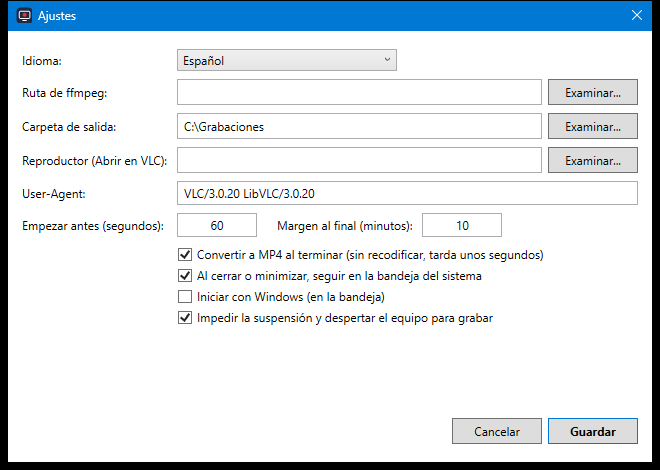
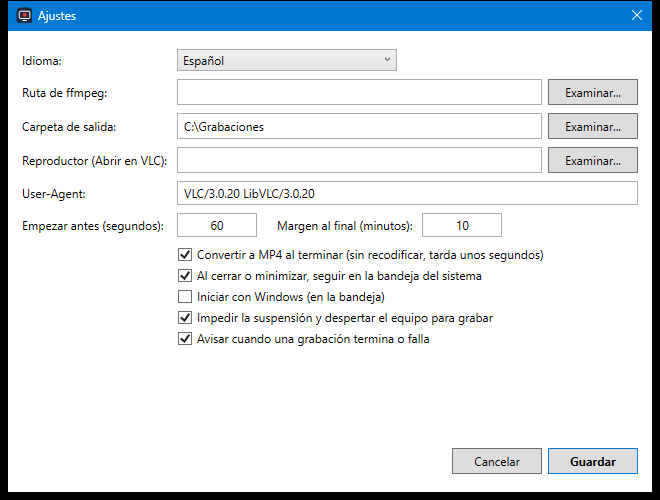
Notify when a recording finishes or fails
An unattended recording could fail overnight with the only trace being a
line in the Detail column. The scheduler now raises a Finished event on
reaching a terminal state and the main window shows a notification next to
the clock; clicking it opens the folder with the file. Stopping a
recording yourself does not notify.

Claude-Session: https://claude.ai/code/session_01PLmKPQmk7RKYaSJT1D6BU3

diff --git a/SettingsWindow.xaml b/SettingsWindow.xaml
@@ -1,7 +1,7 @@
 <Window x:Class="IptvRecorder.SettingsWindow"
         xmlns="http://schemas.microsoft.com/winfx/2006/xaml/presentation"
         xmlns:x="http://schemas.microsoft.com/winfx/2006/xaml"
-        Title="{DynamicResource Settings_Title}" Height="470" Width="660" ResizeMode="NoResize"
+        Title="{DynamicResource Settings_Title}" Height="500" Width="660" ResizeMode="NoResize"
         WindowStartupLocation="CenterOwner" ShowInTaskbar="False">
     <Window.Resources>
         <Style TargetType="TextBox">
@@ -29,6 +29,7 @@
             <ColumnDefinition Width="Auto"/>
         </Grid.ColumnDefinitions>
         <Grid.RowDefinitions>
+            <RowDefinition Height="Auto"/>
             <RowDefinition Height="Auto"/>
             <RowDefinition Height="Auto"/>
             <RowDefinition Height="Auto"/>
@@ -74,8 +75,10 @@
         <CheckBox x:Name="AutostartBox" Grid.Row="8" Grid.Column="1" Grid.ColumnSpan="2" Content="{DynamicResource Set_Autostart}"/>
         <CheckBox x:Name="PreventSleepBox" Grid.Row="9" Grid.Column="1" Grid.ColumnSpan="2"
                   Content="{DynamicResource Set_PreventSleep}" ToolTip="{DynamicResource Set_PreventSleep_Tip}"/>
+        <CheckBox x:Name="NotifyBox" Grid.Row="10" Grid.Column="1" Grid.ColumnSpan="2"
+                  Content="{DynamicResource Set_Notify}" ToolTip="{DynamicResource Set_Notify_Tip}"/>
 
-        <StackPanel Grid.Row="11" Grid.Column="0" Grid.ColumnSpan="3" Orientation="Horizontal" HorizontalAlignment="Right">
+        <StackPanel Grid.Row="12" Grid.Column="0" Grid.ColumnSpan="3" Orientation="Horizontal" HorizontalAlignment="Right">
             <Button Content="{DynamicResource Btn_Cancel}" IsCancel="True"/>
             <Button Content="{DynamicResource Btn_Save}" IsDefault="True" Click="Save_Click" FontWeight="Bold"/>
         </StackPanel>

diff --git a/Strings/Strings.es.xaml b/Strings/Strings.es.xaml
@@ -136,6 +136,10 @@
     <sys:String x:Key="Set_Autostart">Iniciar con Windows (en la bandeja)</sys:String>
     <sys:String x:Key="Set_PreventSleep">Impedir la suspensión y despertar el equipo para grabar</sys:String>
     <sys:String x:Key="Set_PreventSleep_Tip">La pantalla puede apagarse igualmente. Despertar el equipo requiere que el plan de energía permita los temporizadores de reactivación.</sys:String>
+    <sys:String x:Key="Set_Notify">Avisar cuando una grabación termina o falla</sys:String>
+    <sys:String x:Key="Set_Notify_Tip">Muestra un aviso junto al reloj. Al pulsarlo se abre la carpeta con el archivo.</sys:String>
+    <sys:String x:Key="Notify_Done">Grabación terminada</sys:String>
+    <sys:String x:Key="Notify_Failed">Grabación fallida</sys:String>
     <sys:String x:Key="Btn_Cancel">Cancelar</sys:String>
     <sys:String x:Key="Btn_Save">Guardar</sys:String>
     <sys:String x:Key="Set_Detected">Detectado automáticamente: {0}</sys:String>

diff --git a/Strings/Strings.en.xaml b/Strings/Strings.en.xaml
@@ -136,6 +136,10 @@
     <sys:String x:Key="Set_Autostart">Start with Windows (in the tray)</sys:String>
     <sys:String x:Key="Set_PreventSleep">Prevent sleep and wake the computer to record</sys:String>
     <sys:String x:Key="Set_PreventSleep_Tip">The screen can still turn off. Waking the computer requires wake timers to be allowed in the power plan.</sys:String>
+    <sys:String x:Key="Set_Notify">Notify when a recording finishes or fails</sys:String>
+    <sys:String x:Key="Set_Notify_Tip">Shows a notification next to the clock. Clicking it opens the folder with the file.</sys:String>
+    <sys:String x:Key="Notify_Done">Recording finished</sys:String>
+    <sys:String x:Key="Notify_Failed">Recording failed</sys:String>
     <sys:String x:Key="Btn_Cancel">Cancel</sys:String>
     <sys:String x:Key="Btn_Save">Save</sys:String>
     <sys:String x:Key="Set_Detected">Detected automatically: {0}</sys:String>

diff --git a/RecordingScheduler.cs b/RecordingScheduler.cs
@@ -19,6 +19,8 @@ public class RecordingScheduler : IDisposable
     public event Action<string>? Log;
     public event Action? Changed;
     public event Action<Recording>? Starting;
+    /// <summary>Una grabación ha terminado, bien o mal. No se lanza si el usuario la detuvo.</summary>
+    public event Action<Recording>? Finished;
 
     public bool AnyActive => _procs.Count > 0;
 
@@ -53,6 +55,7 @@ public class RecordingScheduler : IDisposable
                 r.Status = RecordingStatus.Failed;
                 r.LastLog = Loc.Get("Log_Missed");
                 Changed?.Invoke();
+                Finished?.Invoke(r);
                 continue;
             }
 
@@ -181,6 +184,7 @@ public class RecordingScheduler : IDisposable
             r.Status = RecordingStatus.Failed;
             r.LastLog = Loc.Get("Log_FfmpegMissing");
             Changed?.Invoke();
+            Finished?.Invoke(r);
             return;
         }
 
@@ -190,6 +194,7 @@ public class RecordingScheduler : IDisposable
             r.Status = RecordingStatus.Failed;
             r.LastLog = Loc.Get("Log_OutputFolderError", ex.Message);
             Changed?.Invoke();
+            Finished?.Invoke(r);
             return;
         }
 
@@ -257,6 +262,7 @@ public class RecordingScheduler : IDisposable
             r.Status = RecordingStatus.Failed;
             r.LastLog = Loc.Get("Log_FfmpegStartError", ex.Message);
             Changed?.Invoke();
+            Finished?.Invoke(r);
             return;
         }
 
@@ -350,6 +356,7 @@ public class RecordingScheduler : IDisposable
                 try { if (size == 0 && File.Exists(tsFile)) File.Delete(tsFile); } catch { }
                 Changed?.Invoke();
                 Log?.Invoke(Loc.Get("Log_Failed", r.ChannelName, r.LastLog));
+                if (!requested) Finished?.Invoke(r);
                 return;
             }
 
@@ -421,6 +428,7 @@ public class RecordingScheduler : IDisposable
         r.LastLog = note ?? Loc.Get(requested ? "Log_StoppedManually" : "Log_Completed", mb);
         Changed?.Invoke();
         Log?.Invoke(Loc.Get("Log_Finished", r.ChannelName, file));
+        Finished?.Invoke(r);
     }
 
     public void Stop(Recording r)

diff --git a/MainWindow.xaml.cs b/MainWindow.xaml.cs
@@ -25,6 +25,7 @@ public partial class MainWindow : Window
     private WinForms.NotifyIcon? _tray;
     private WinForms.ToolStripMenuItem? _trayOpen;
     private WinForms.ToolStripMenuItem? _trayExit;
+    private Recording? _lastNotified;
     private bool _exiting;
 
     /// <summary>Entrada "todos los grupos" del desplegable. Es un objeto propio para no confundirla con un grupo real.</summary>
@@ -55,6 +56,8 @@ public partial class MainWindow : Window
             if (sameChannel) ScheduleLiveSwitch(r);
             else if (wasOpen) SetStatus(Loc.Get("Status_PreviewClosedForRecording", r.Title));
         };
+
+        _scheduler.Finished += NotifyFinished;
 
         _preview = new EmbeddedPreview(VideoView, _settings.UserAgent);
         _preview.Error += msg => Dispatcher.BeginInvoke(() =>
@@ -547,6 +550,38 @@ public partial class MainWindow : Window
         menu.Items.Add(_trayExit);
         _tray.ContextMenuStrip = menu;
         _tray.DoubleClick += (_, _) => ShowFromTray();
+        _tray.BalloonTipClicked += (_, _) => OpenNotified();
+    }
+
+    /// <summary>Aviso en la bandeja al acabar una grabación, para no descubrir un fallo
+    /// al día siguiente. Al pulsar el aviso se abre la carpeta con el archivo.</summary>
+    private void NotifyFinished(Recording r)
+    {
+        if (!_settings.Notifications || _tray == null) return;
+
+        _lastNotified = r;
+        var ok = r.Status == RecordingStatus.Completed;
+        _tray.ShowBalloonTip(
+            8000,
+            Loc.Get(ok ? "Notify_Done" : "Notify_Failed"),
+            $"{r.Title}\n{r.LastLog}",
+            ok ? WinForms.ToolTipIcon.Info : WinForms.ToolTipIcon.Error);
+    }
+
+    private void OpenNotified()
+    {
+        var r = _lastNotified;
+        if (r != null && r.Status == RecordingStatus.Completed && r.OutputFile.Length > 0 && File.Exists(r.OutputFile))
+        {
+            try
+            {
+                Process.Start("explorer.exe", $"/select,\"{r.OutputFile}\"");
+                return;
+            }
+            catch { }
+        }
+        ShowFromTray();
+        if (r != null) RecordingsGrid.SelectedItem = r;
     }
 
     private void HideToTray()

diff --git a/SettingsWindow.xaml.cs b/SettingsWindow.xaml.cs
@@ -35,6 +35,7 @@ public partial class SettingsWindow : Window
         TrayBox.IsChecked = current.MinimizeToTray;
         AutostartBox.IsChecked = current.StartWithWindows;
         PreventSleepBox.IsChecked = current.PreventSleep;
+        NotifyBox.IsChecked = current.Notifications;
 
         // Una ruta guardada que ya no existe (por ejemplo tras actualizar ffmpeg) se vacía
         // para volver a la detección automática en lugar de bloquear el guardado.
@@ -116,6 +117,7 @@ public partial class SettingsWindow : Window
             MinimizeToTray = TrayBox.IsChecked == true,
             StartWithWindows = AutostartBox.IsChecked == true,
             PreventSleep = PreventSleepBox.IsChecked == true,
+            Notifications = NotifyBox.IsChecked == true,
             Language = LanguageBox.SelectedValue as string ?? "",
         };
         DialogResult = true;

diff --git a/Models.cs b/Models.cs
@@ -90,6 +90,8 @@ public class AppSettings
     public int TailMinutes { get; set; } = 10;
     public bool ConvertToMp4 { get; set; } = true;
     public bool MinimizeToTray { get; set; } = true;
+    /// <summary>Avisar en la bandeja cuando una grabación termina o falla.</summary>
+    public bool Notifications { get; set; } = true;
     public bool StartWithWindows { get; set; } = false;
     /// <summary>Impedir la suspensión mientras se graba y despertar el equipo para grabar.</summary>
     public bool PreventSleep { get; set; } = true;

diff --git a/README.md b/README.md
@@ -12,6 +12,7 @@ Grabador de canales IPTV para Windows. Carga una lista M3U, busca el canal y pro
 - **Nueva grabación**: título, fecha, hora y duración. "Programar" la deja en cola; "Grabar ahora" empieza al momento.
 - **Grabaciones**: estado en vivo de cada una. En la captura hay una completada, una en curso con tiempo y tamaño, y una pendiente para el día siguiente.
 - **Bandeja del sistema**: al cerrar o minimizar la app sigue funcionando y las grabaciones programadas se hacen igualmente.
+- **Avisos**: cuando una grabación termina o falla aparece una notificación junto al reloj. Al pulsarla se abre la carpeta con el archivo.
 
 ![Ajustes](docs/screenshot-settings.png)
 
@@ -51,6 +52,7 @@ Para añadir otro idioma: copia `Strings\Strings.en.xaml` como `Strings\Strings.
 - **Convertir a MP4**: al terminar, remuxea el `.ts` a `.mp4` sin recodificar y borra el `.ts`.
 - **Iniciar con Windows**: arranca minimizado en la bandeja al iniciar sesión, para no perder grabaciones.
 - **Impedir la suspensión**: bloquea la suspensión mientras se graba y despierta el equipo antes de una grabación programada. Activado por defecto.
+- **Avisar al terminar o fallar**: notificación junto al reloj. Activado por defecto. No avisa si eres tú quien detiene la grabación.
 - **User-Agent**: algunos proveedores solo aceptan reproductores conocidos. Por defecto se identifica como VLC.
 
 ## Limitaciones

diff --git a/TODO.md b/TODO.md
@@ -17,11 +17,13 @@ Lista de mejoras por orden de prioridad.
   sigue siendo la del partido. Al programar, la barra de estado dice hasta qué hora se
   grabará de verdad. Ver `RecordingScheduler.EndWithTail`.
 
-## Siguientes
+- [x] **3. Aviso al terminar o al fallar**
+  El planificador lanza un evento `Finished` al llegar a un estado final y la ventana
+  principal muestra una notificación junto al reloj. No avisa cuando la detiene el
+  usuario. Al pulsar el aviso se abre la carpeta con el archivo seleccionado. Se puede
+  desactivar en Ajustes.
 
-- [ ] **3. Aviso al terminar o al fallar**
-  Notificación en la bandeja cuando una grabación acaba bien o falla, para no
-  descubrirlo al día siguiente.
+## Siguientes
 
 - [ ] **4. Comprobar el espacio en disco**
   Dos horas en alta definición ocupan unos 5 GB. Avisar antes de empezar si no cabe.
